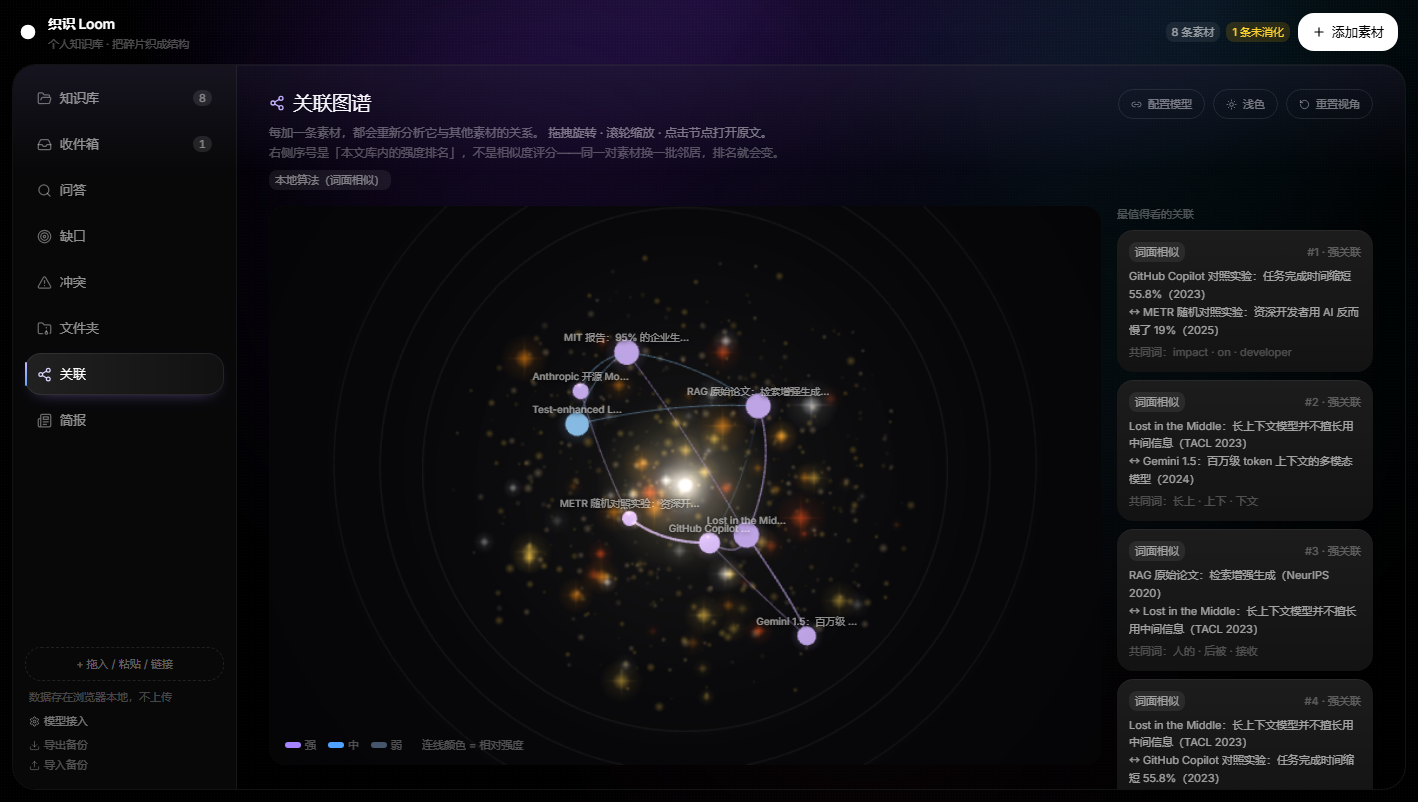
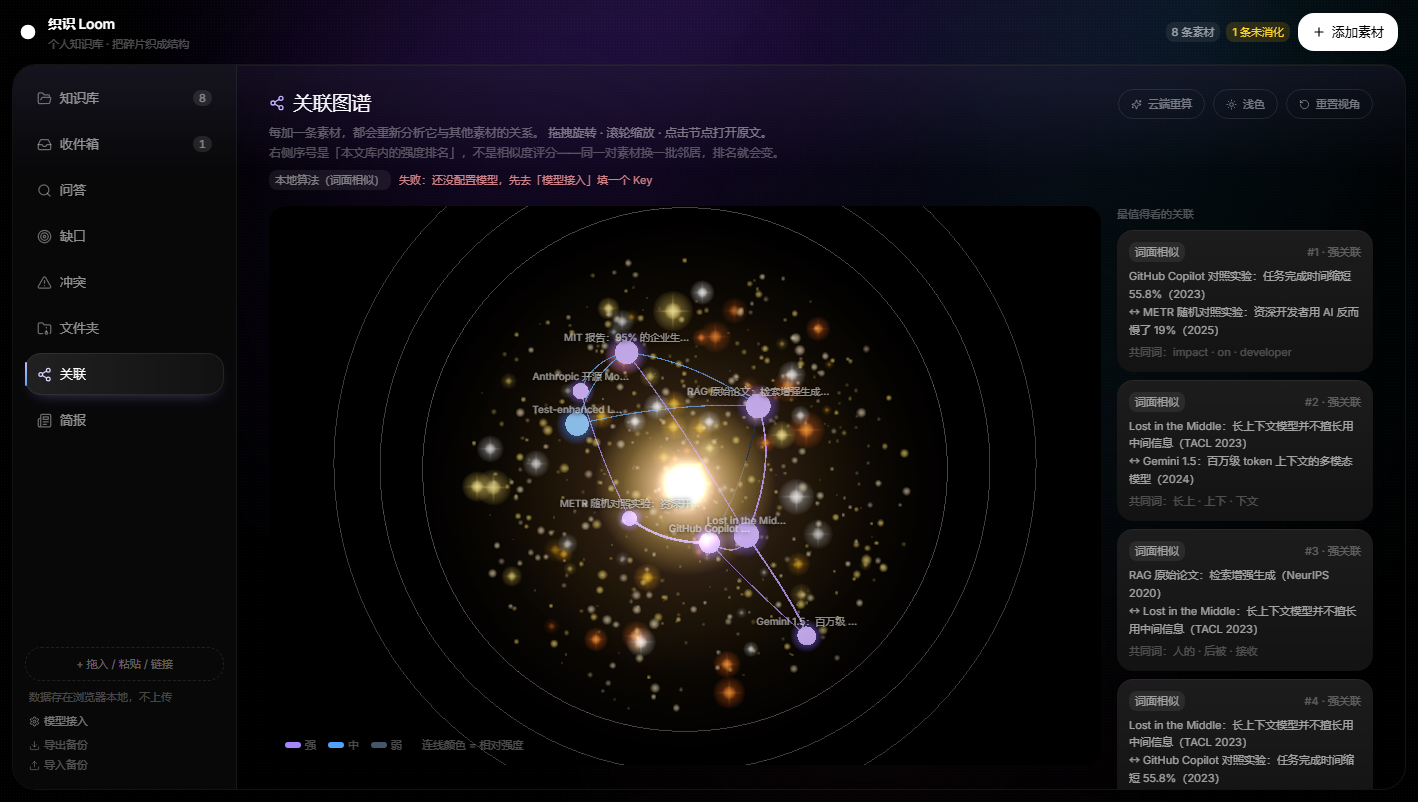
fix: 服务端预置 Key 时不再被前端拦截；配置模型入口常驻

Changed region(s): [[0.3103, 0.3429, 0.6206, 0.8728], [0.2793, 0.2182, 0.4654, 0.2494], [0.8068, 0.1247, 0.8378, 0.1559]]

diff --git a/components/kb/GraphView.tsx b/components/kb/GraphView.tsx
@@ -684,26 +684,29 @@ export function GraphView() {
           </div>
         </div>
         <div className="flex shrink-0 flex-wrap items-center gap-2">
+          {/* 配置入口常驻：即使用服务端 Key，也能换成自己的 */}
           <button
-            onClick={() => {
-              if (!canCloud) {
-                router.push("/kb/settings");
-                return;
-              }
-              void refreshEdges();
-            }}
-            disabled={canCloud && (edgeStatus === "loading" || sources.length < 2)}
-            className="flex items-center gap-1.5 rounded-xl border border-white/10 px-3 py-1.5 text-2xs text-white/45 transition-colors hover:border-white/25 hover:text-white disabled:cursor-not-allowed disabled:opacity-50"
+            onClick={() => router.push("/kb/settings")}
+            title="配置自己的模型（可选）"
+            className="flex items-center gap-1.5 rounded-xl border border-white/10 px-3 py-1.5 text-2xs text-white/45 transition-colors hover:border-white/25 hover:text-white"
           >
-            {!canCloud ? (
-              <Link2 size={11} />
-            ) : edgeStatus === "loading" ? (
+            <Link2 size={11} />
+            配置模型
+          </button>
+
+          <button
+            onClick={() => void refreshEdges()}
+            disabled={!canCloud || edgeStatus === "loading" || sources.length < 2}
+            className="flex items-center gap-1.5 rounded-xl border border-white/10 px-3 py-1.5 text-2xs text-white/45 transition-colors hover:border-white/25 hover:text-white disabled:cursor-not-allowed disabled:opacity-40"
+          >
+            {edgeStatus === "loading" ? (
               <Loader2 size={11} className="animate-spin" />
             ) : (
               <Sparkles size={11} />
             )}
-            {!canCloud ? "配置模型" : edgeStatus === "loading" ? "分析中…" : "云端重算"}
+            {edgeStatus === "loading" ? "分析中…" : "云端重算"}
           </button>
+
           <button
             onClick={() => setMode(mode === "light" ? "dark" : "light")}
             className="flex items-center gap-1.5 rounded-xl border border-white/10 px-3 py-1.5 text-2xs text-white/45 transition-colors hover:border-white/25 hover:text-white"

diff --git a/lib/kb/intent.ts b/lib/kb/intent.ts
@@ -13,10 +13,6 @@ export interface IntentSuggestion {
  */
 export async function suggestIntents(source: Source): Promise<IntentSuggestion> {
   const config = loadConfig();
-  if (!config.apiKey) {
-    throw new Error("还没配置模型，先去「模型接入」填一个 Key");
-  }
-
   const response = await fetch("/api/generate", {
     method: "POST",
     headers: { "content-type": "application/json" },
@@ -67,10 +63,6 @@ export async function askAboutSource(
   question: string,
 ): Promise<string> {
   const config = loadConfig();
-  if (!config.apiKey) {
-    throw new Error("还没配置模型，先去「模型接入」填一个 Key");
-  }
-
   const response = await fetch("/api/generate", {
     method: "POST",
     headers: { "content-type": "application/json" },

diff --git a/lib/kb/conflict.ts b/lib/kb/conflict.ts
@@ -18,10 +18,6 @@ export async function analyzeConflict(
   reason: string,
 ): Promise<ConflictAnalysis> {
   const config = loadConfig();
-  if (!config.apiKey) {
-    throw new Error("还没配置模型，先去「模型接入」填一个 Key");
-  }
-
   const response = await fetch("/api/generate", {
     method: "POST",
     headers: { "content-type": "application/json" },
@@ -72,10 +68,6 @@ export async function askAboutConflict(
   question: string,
 ): Promise<string> {
   const config = loadConfig();
-  if (!config.apiKey) {
-    throw new Error("还没配置模型，先去「模型接入」填一个 Key");
-  }
-
   const response = await fetch("/api/generate", {
     method: "POST",
     headers: { "content-type": "application/json" },

diff --git a/lib/kb/generate.ts b/lib/kb/generate.ts
@@ -17,10 +17,6 @@ function usable(sources: Source[], limit: number): Source[] {
 
 async function post(body: Record<string, unknown>): Promise<GenerateResult> {
   const config = loadConfig();
-  if (!config.apiKey) {
-    throw new Error("还没配置模型，先去「模型接入」填一个 Key");
-  }
-
   const response = await fetch("/api/generate", {
     method: "POST",
     headers: { "content-type": "application/json" },

diff --git a/lib/kb/relations.ts b/lib/kb/relations.ts
@@ -21,10 +21,6 @@ export async function requestRelations(
   sources: Source[],
 ): Promise<{ edges: GraphEdge[]; tokens: number | null }> {
   const config = loadConfig();
-  if (!config.apiKey) {
-    throw new Error("还没配置模型，先去「模型接入」填一个 Key");
-  }
-
   const response = await fetch("/api/relations", {
     method: "POST",
     headers: { "content-type": "application/json" },
